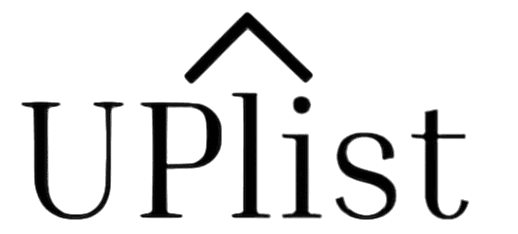
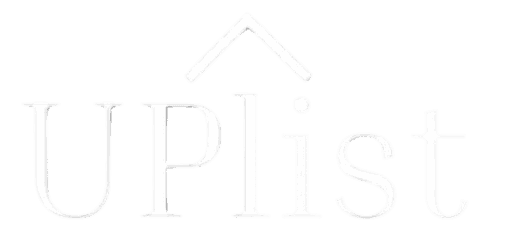
uplist project formatting + styling

diff --git a/src/components/Projects.js b/src/components/Projects.js
@@ -22,8 +22,9 @@ export const Projects = () => {
         },
         {
           title: "Uplist",
-          description: "Description 3",
+          description: "Contributed to the development of Uplist, a platform connecting emerging artists with event opportunities. Built with React for the frontend and Flask/Azure backend, the platform enables artists to showcase their services and get booked for various events from house parties to club performances. Worked in agile teams, collaborating with other developers to successfully deploy and maintain the live platform. Tech Stack: React.js, Flask, Microsoft Azure, RESTful APIs. Click this box to visit Uplist.uk",
           imgUrl: img3,
+          projectUrl: "https://Uplist.uk"
         },
         {
           title: "Project title 4",

diff --git a/src/App.css b/src/App.css
@@ -509,12 +509,13 @@ Created by: kjpargeter
   padding: 20px;
 }
 
+
 .proj-imgbx.project-3 img {
   object-fit: contain;
-  -webkit-filter: invert(100%); 
-  filter: invert(100%);
-  background-color: transparent;
+  
 }
+
+
 
 .proj-imgbx::before {
   content: "";
